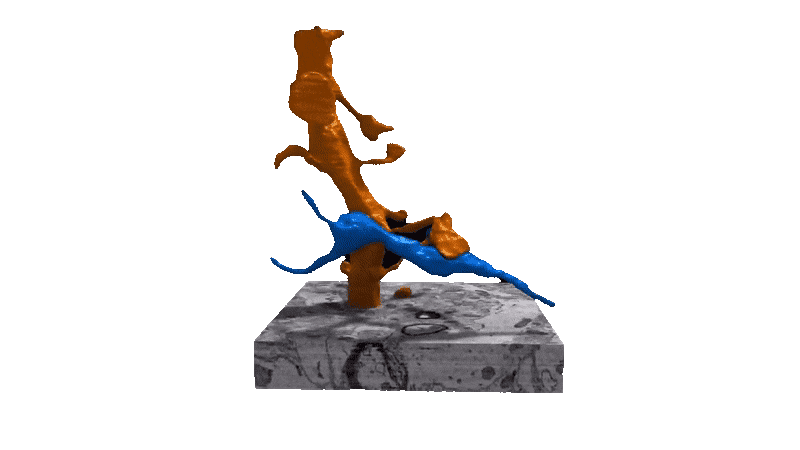
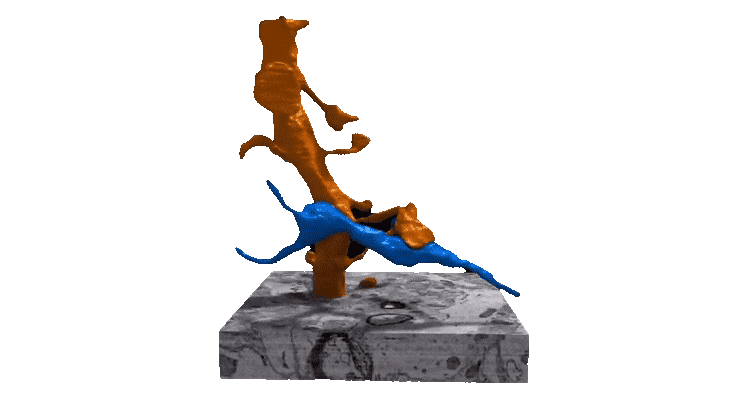
removed margins

Changed region(s): [[0.2753, 0.0304, 0.7035, 0.9722]]

diff --git a/_posts/2025-01-01-Introduction_to_connectomics.md b/_posts/2025-01-01-Introduction_to_connectomics.md
@@ -30,7 +30,7 @@ Nanoscale connectomes are the microscopic maps of neuron-to-neuron connections, 
 <div style="width: 100%; text-align: justify;"></div><br>
 <p align="center"><img src="/images/multiconn.png" alt="Alt text" style="max-width: 80%; height: auto; border-radius: 0px; mix-blend-mode: multiply;"></p>
 
-<div style="width: 80%; margin: auto; text-align: center;">
+<div style="width: 80%; margin: auto; text-align: justify;">
   <p><b>Figure 1:</b> Connectome of a fruit fly (Drosophila melanogaster) obtained using Electron Microscopy, showing different neuronal types. The connectome consists of 140,000 neurons and is the size of the grain of sand.</p>
 </div>
 
@@ -38,8 +38,8 @@ Electron microscopy reigns supreme in spatial resolution, making it essential fo
 
 <p align="center"><img src="/images/ssm.png" alt="Alt text" style="max-width: 80%; height: auto; border-radius: 0px; mix-blend-mode: multiply;"></p>
 
-<div style="width: 80%; margin: auto; text-align: center;">
-  <p><b>Figure 2:</b> Illustration showing how the fruit fly connecome like the one above was obtained. This involves slicing the fly's brain into ultra-thin sections and imaging each section with an electron microscope after which a semi-supervised cellular classifier creates a detailed 3D reconstruction of neural structures.</p>
+<div style="width: 80%; margin: auto; text-align: justify;">
+  <p><b>Figure 2:</b> Illustration showing how the fruit fly connectome, like the one above, was obtained. This involves slicing the fly's brain into ultra-thin sections and imaging each section with an electron microscope, after which a semi-supervised cellular classifier creates a detailed 3D reconstruction of neural structures.</p>
 </div>
 
 
@@ -47,13 +47,19 @@ Electron microscopy reigns supreme in spatial resolution, making it essential fo
 Macroscale connectomes are typically mapped using diffusion-weighted magnetic resonance imaging (dMRI) and functional magnetic resonance imaging (fMRI). dMRI is like the Google Maps of the brain, charting the main highways of white matter that connect the cortex to the subcortex. It does this by tracking the diffusion of water molecules, which reveal the orientation of these neural pathways. When paired with tractography, dMRI doesn't just stop at mapping; it reconstructs the brain's white matter tracts by measuring water diffusion in multiple directions, estimating local fiber orientations, and modeling the brain's fiber pathways. Tractography algorithms then take the baton, tracing the probable routes of these pathways to sketch out the brain's anatomical connectivity. From this data, we can extract metrics like fractional anisotropy (FA), mean diffusivity (MD), and connectivity strength, which help us assess the microstructural properties of white matter and quantify the robustness of long-range connections between brain regions. 
 
 <p align="center"><img src="/images/connectome_line.png" alt="Alt text" style="max-width: 80%; height: auto; border-radius: 10px;"></p>
-<div style="width: 100%; margin: auto; text-align: justify;"></div><br>
+<div style="width: 80%; margin: auto; text-align: center;">
+  <p><b>Figure 4:</b> High-level human brain connectome is mapped in a three-step process: 
+  1. Diffusion-weighted MRI (dMRI) is used to chart the brain's white matter tracts
+  2. Tractography algorithms establish the edges by tracing these pathways.
+  3. Nodes are defined by identifying brain regions connected by the edges.</p>
+</div>
+
 
 So, you've got your brain imaging data. What next? Turn it into a graph neural network (GNN) to make it functional. Imagine each brain region as a node and the white matter connections as edges. The weights? They come from metrics like FA values or fiber counts. This graph setup lets us use GNN algorithms to dissect the brain's network dynamics, spot clusters of tightly-knit regions, and trace the flow of information through neural circuits. The beauty of the GNN framework lies in its dual ability to map the structural layout of brain connections and to learn how activity zips through the network. This computational method is poweful for systematically exploring brain organization and function at the network level.
 
 <p align="center"><img src="/images/matricies.png" alt="Alt text" style="max-width: 80%; height: auto; border-radius: 10px; mix-blend-mode: multiply;"></p>
 <div style="width: 80%; margin: auto; text-align: center;">
-  <p><b>Figure 4:</b>High-level MRI conectome of the human brain.</p>
+  <p><b>Figure 5:</b> Connectivity matrices of different species.</p>
 </div>
 
 <hr style="border-top: 1px solid black;">
@@ -61,10 +67,6 @@ So, you've got your brain imaging data. What next? Turn it into a graph neural n
 <h3 align="center">3. Applications</h3>
 
 By comparing the connectomes of the diseased and the healthy, we can glean insights into psychopathologies like neuropathic pain and potential therapies. Connectomics offers a window into the tangled web of mental illnesses and brain disorders. Advanced imaging technologies enhance our ability to track and even predict diseases based on historical data, though this is a time-consuming endeavor. Take schizophrenia and bipolar disorder, for instance—both share genetic roots, and studies show that individuals with higher polygenic scores for these conditions exhibit reduced connectivity in neuroimaging. This research marries imaging with genetics to probe the origins and outcomes of genetically linked disorders. Another study corroborates the link between connectivity and disease likelihood, noting that schizophrenia patients have less structurally complete brain networks. The Achilles' heel of connectomics is its current inability to capture whole-brain networks, complicating the task of drawing definitive cause-and-effect conclusions about neural pathways. While connectomics has been applied to stroke patients via MRI, the paucity of research in this niche means we can't yet make sweeping claims about strokes and connectivity. Some findings suggest a link between poor connectivity in the language system and motor coordination issues, but the evidence isn't robust enough for bold assertions. Behavioral disorders pose their own challenges, often diagnosed and treated based on symptoms that overlap across conditions. Connectomics has identified neuromarkers for social anxiety disorder (SAD) with high precision, improving symptom management. This burgeoning field holds promise for broad applications in all-things brain function related, as current research continues to build on neural networks and the associated psychopathology.
-
-
-<p align="center"><img src="/images/em.png" alt="Alt text" style="max-width: 80%; height: auto; border-radius: 0px; mix-blend-mode: multiply;"></p>
-
 
 When you compare the connectomes of healthy women and men, the data reveals something intriguing: women's connectomes are not just slightly better connected, but significantly so. They boast more edges, a higher minimum bipartition width, a larger eigengap, and a greater minimum vertex cover. In simpler terms, women's brains are like a finely tuned network machine, with fewer communication bottlenecks and superior expansion capabilities. The minimum bipartition width, a metric borrowed from computer network design, indicates how well a network can handle communication without congestion. A larger eigengap suggests that women's connectomes are better at expanding, akin to a network that can grow without losing its coherence. These factors collectively highlight a superior network connectivity in female braingraphs, offering a fascinating glimpse into the intricacies of human brain networks.
 
@@ -82,7 +84,7 @@ Caenorhabditis Elegans, the humble roundworm, is the darling of connectomics. We
 
 <p align="center"><img src="/images/celegan.jpg" alt="Alt text" style="max-width: 80%; height: auto; border-radius: 10px; mix-blend-mode: multiply;"></p>
 <div style="width: 80%; margin: auto; text-align: center;">
-  <p><b>Figure X:</b>Connectome of a C.elecan</p>
+  <p><b>Figure 6:</b>Connectome of a C.elecan</p>
 </div>
 
 C. elegans is a staple in neuroscience for its simplicity (302 neurons & 5000 synaptic connections), but let's not overstate its utility for human brain modeling. Its neurons lack the complex electrophysiological properties and synaptic plasticity that are hallmarks of human neurons. The neurotransmitter systems in C. elegans are basic, lacking the intricate signaling pathways found in humans. While uploading its neural data is insightful, it underscores the limitations of using C. elegans to model human brain functions.
